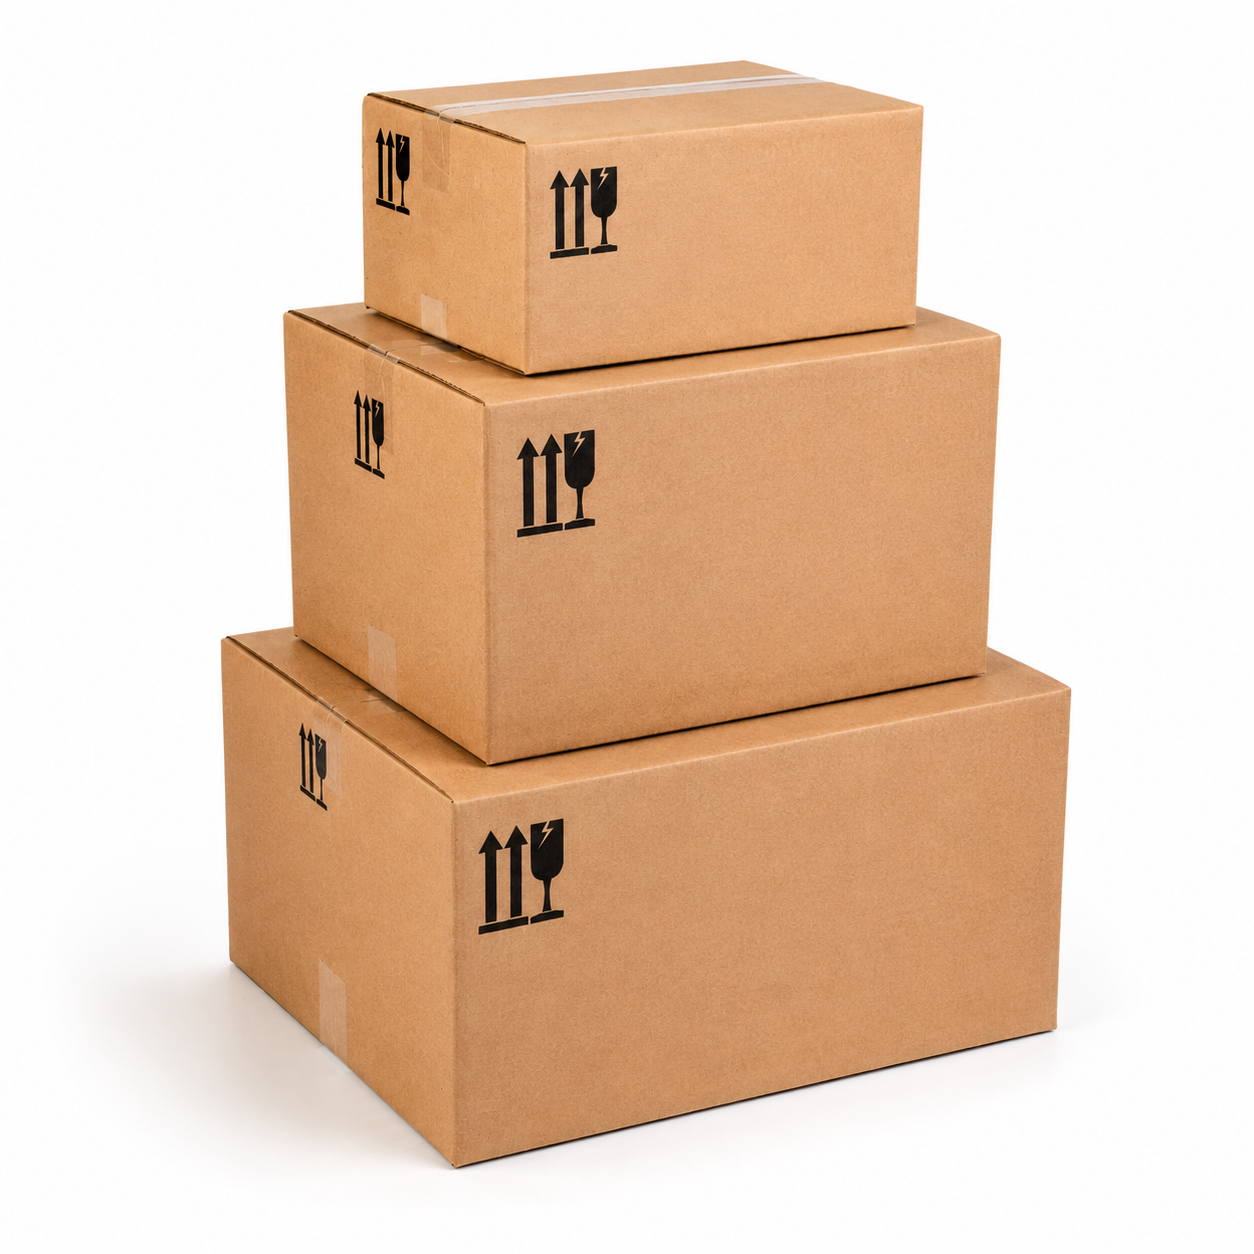
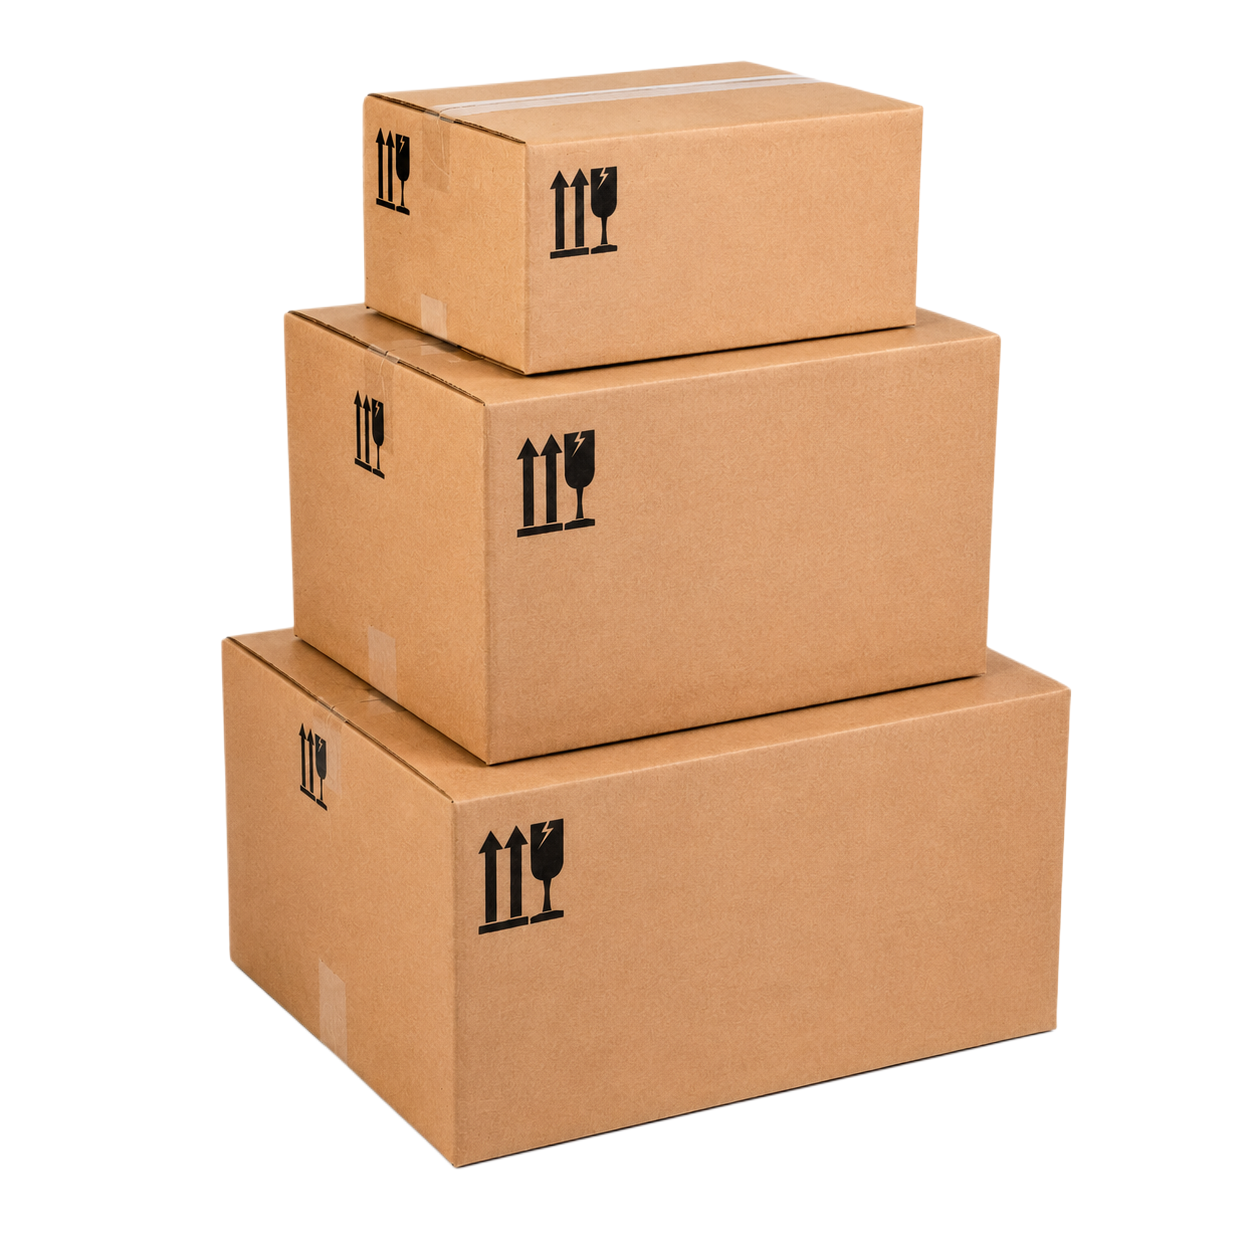
Menambah produk dan detail pada page product

diff --git a/src/data/productsData.js b/src/data/productsData.js
@@ -1,5 +1,6 @@
 import {
-    FaShieldHalved, FaLayerGroup, FaRulerCombined, FaBoxOpen, FaWeightHanging, FaGlobe, FaArrowsLeftRight
+    FaShieldHalved, FaLayerGroup, FaRulerCombined, FaBoxOpen, FaWeightHanging, FaGlobe, FaArrowsLeftRight,
+    FaCubes, FaWater, FaCompress, FaRecycle
 } from 'react-icons/fa6';
 
 const SPECS_KARTON_BOX = [
@@ -18,6 +19,30 @@ const SPECS_SIKU_KARTON = [
     { icon: FaRulerCombined, label: 'Ketebalan', value: '3 - 5 mm' },
     { icon: FaArrowsLeftRight, label: 'Panjang', value: 's/d 2.400 mm' },
     { icon: FaShieldHalved, label: 'Fungsi', value: 'Edge protection & stacking' }
+];
+
+const SPECS_PAPER_CORE = [
+    { icon: FaLayerGroup, label: 'Material', value: 'Kraft Paper Berkualitas' },
+    { icon: FaRulerCombined, label: 'Diameter & Ketebalan', value: 'Custom sesuai permintaan' },
+    { icon: FaRecycle, label: 'Sifat', value: 'Kuat, presisi, dan ramah lingkungan' }
+];
+
+const SPECS_PARTISI_KARTON = [
+    { icon: FaCubes, label: 'Bentuk', value: 'Sekat interlock / custom grid' },
+    { icon: FaRulerCombined, label: 'Ukuran', value: 'Sesuai dimensi box kemasan' },
+    { icon: FaShieldHalved, label: 'Fungsi', value: 'Mencegah gesekan antar produk' }
+];
+
+const SPECS_PE_FOAM = [
+    { icon: FaRulerCombined, label: 'Ketebalan', value: '1 mm - 10 mm (Custom)' },
+    { icon: FaLayerGroup, label: 'Format', value: 'Roll, Lembaran, atau Kantong' },
+    { icon: FaCompress, label: 'Sifat', value: 'Peredam benturan & anti gores' }
+];
+
+const SPECS_PP_BOARD = [
+    { icon: FaLayerGroup, label: 'Material', value: 'Polypropylene (PP) Corrugated' },
+    { icon: FaWater, label: 'Keunggulan', value: 'Anti air & tahan bahan kimia' },
+    { icon: FaRecycle, label: 'Sifat', value: 'Dapat dicuci dan digunakan berulang' }
 ];
 
 export const PRODUCTS = [
@@ -39,4 +64,28 @@ export const PRODUCTS = [
         tagline: 'Pelindung sudut produk agar tetap aman selama pengiriman dan stacking.',
         specs: SPECS_SIKU_KARTON
     },
+    {
+        title: "PAPER CORE",
+        image: "/images/foto-paper-core.png",
+        tagline: 'Solusi gulungan (tube) serbaguna untuk benang, kain, lakban, dan plastik.',
+        specs: SPECS_PAPER_CORE
+    },
+    {
+        title: "PARTISI KARTON",
+        image: "/images/foto-partisi-karton.png",
+        tagline: 'Sekat pelindung interior box untuk menjaga produk tetap utuh tanpa benturan.',
+        specs: SPECS_PARTISI_KARTON
+    },
+    {
+        title: "PE FOAM",
+        image: "/images/foto-pe-foam.png",
+        tagline: 'Busa pelindung ringan dan elastis, anti gores untuk permukaan barang presisi.',
+        specs: SPECS_PE_FOAM
+    },
+    {
+        title: "PP BOARD",
+        image: "/images/foto-pp-board.png",
+        tagline: 'Lembaran plastik berongga yang tangguh, anti air, dan tahan lama.',
+        specs: SPECS_PP_BOARD
+    }
 ];
